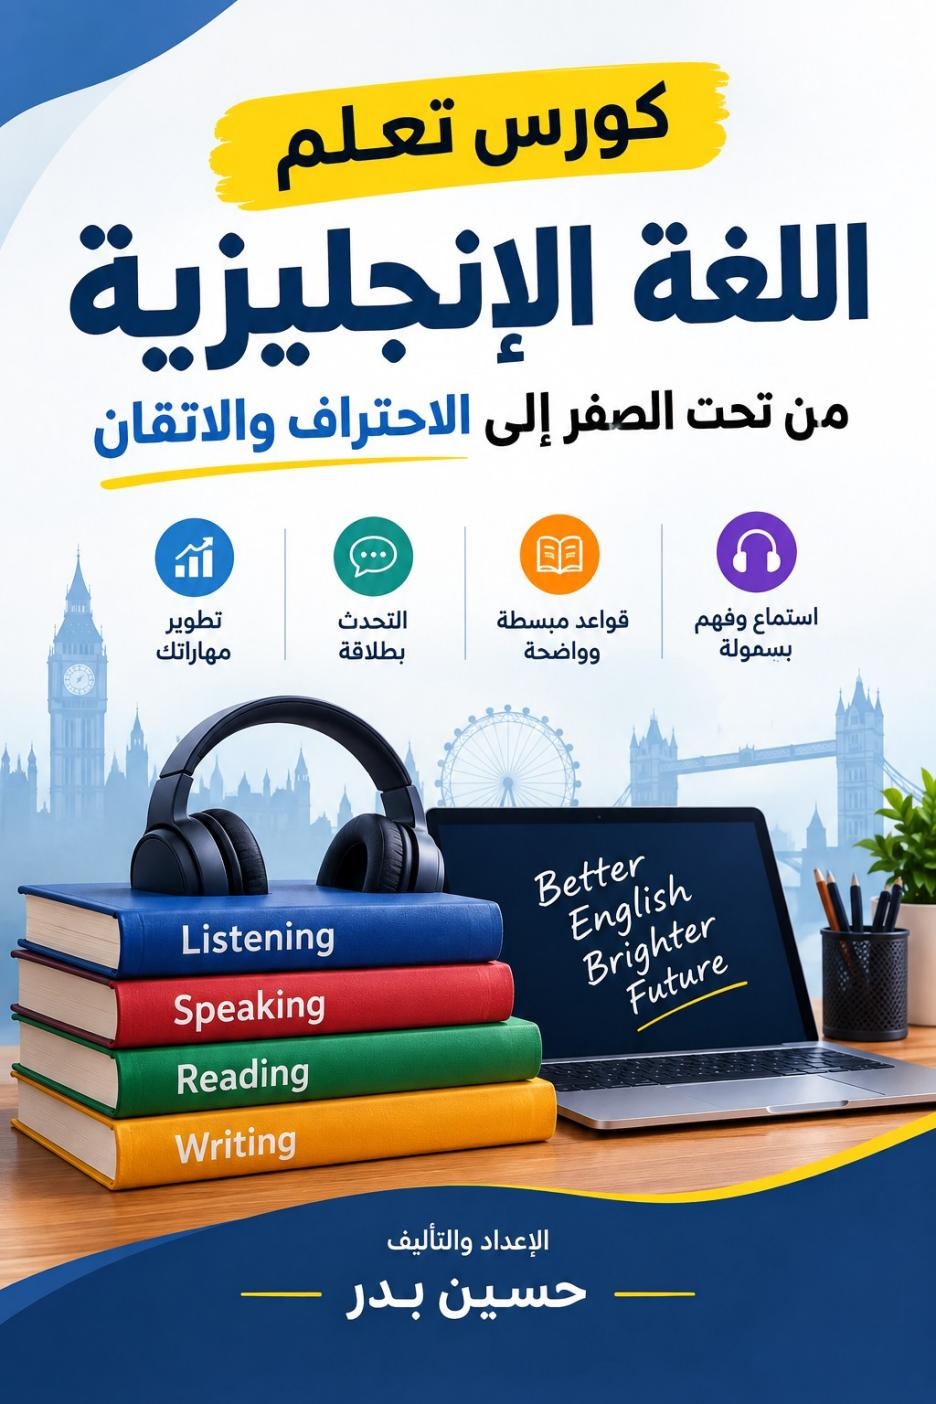
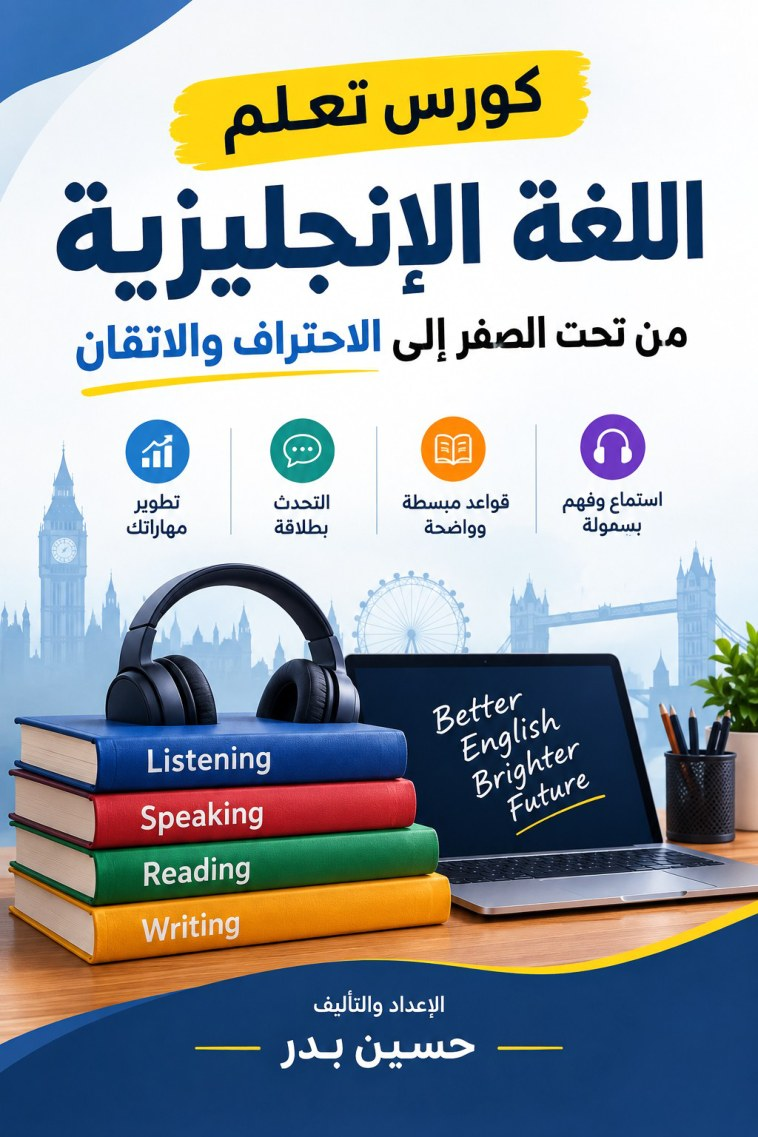
Add files via upload

diff --git a/index.html b/index.html
@@ -4,11 +4,11 @@
   <meta charset="utf-8">
   <meta name="viewport" content="width=device-width, initial-scale=1">
   <meta name="theme-color" content="#102e52">
-  <meta name="description" content="تعلم اللغة الإنجليزية من الصفر إلى الاحتراف والإتقان - ملف تعليمي PDF من إعداد حسين بدر.">
-  <meta property="og:title" content="تعلم اللغة الإنجليزية من الصفر إلى الاحتراف والإتقان | حسين بدر">
+  <meta name="description" content="تعلم اللغة الإنجليزية من تحت الصفر إلى الاحتراف والإتقان - ملف تعليمي PDF من إعداد حسين بدر.">
+  <meta property="og:title" content="تعلم اللغة الإنجليزية من تحت الصفر إلى الاحتراف والإتقان | حسين بدر">
   <meta property="og:description" content="ملف تعليمي لتعلم اللغة الإنجليزية بصيغة PDF.">
   <meta property="og:image" content="assets/cover.jpg">
-  <title>تعلم اللغة الإنجليزية من الصفر إلى الاحتراف والإتقان | حسين بدر</title>
+  <title>تعلم اللغة الإنجليزية من تحت الصفر إلى الاحتراف والإتقان | حسين بدر</title>
   <style>
     :root { --navy:#102e52; --navy2:#173d68; --gold:#f2c51c; --ink:#17263a; --muted:#66758a; --paper:#f5f7fa; --white:#fff; }
     * { box-sizing:border-box; }
@@ -60,11 +60,11 @@
   <main>
     <section class="hero" aria-labelledby="resource-title">
       <div class="cover-wrap">
-        <img class="cover" src="assets/cover.jpg" alt="غلاف ملف تعلم اللغة الإنجليزية من الصفر إلى الاحتراف والإتقان">
+        <img class="cover" src="assets/cover.jpg" alt="غلاف ملف تعلم اللغة الإنجليزية من تحت الصفر إلى الاحتراف والإتقان">
       </div>
       <div>
         <span class="eyebrow">ملف تعليمي · PDF</span>
-        <h1 id="resource-title">تعلم اللغة الإنجليزية من الصفر إلى الاحتراف والإتقان</h1>
+        <h1 id="resource-title">تعلم اللغة الإنجليزية من تحت الصفر إلى الاحتراف والإتقان</h1>
         <div class="english">English From Zero</div>
         <p class="byline">إعداد وتأليف: <strong>حسين بدر</strong></p>
         <p class="description">ملف تعليمي لتعلم اللغة الإنجليزية، يبدأ بتهيئة المتعلم وشرح طريقة استخدام الكورس، ثم ينتقل إلى الحروف والأصوات والقراءة الأولى وأقسام الكلام، وفق ترتيب المحاضرات الوارد في الملف.</p>
